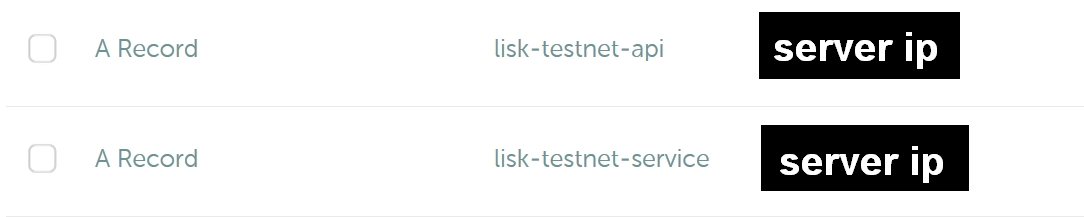
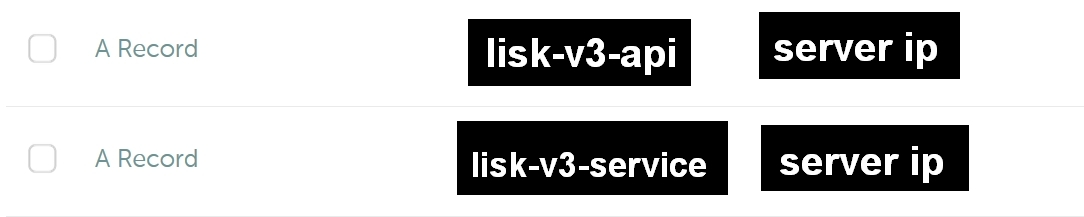
modified a records to match with domains in the guide

Changed region(s): [[0.3958, 0.553, 0.6697, 0.9124], [0.4262, 0.0829, 0.6393, 0.4147]]

diff --git a/lisk-v3-testnet-service-api.html b/lisk-v3-testnet-service-api.html
@@ -71,8 +71,8 @@
 <h3 id="step1">1. Add A-Records for api and service</h3>
 <em>Login to your domain hoster and set two A RECORDS for api and service.<br><br>
 This example will result in the domains:<br>
-- https://lisk-testnet-api.YourDomain.tld<br>
-- https://lisk-testnet-service.YourDomain.tld</em><br><br>
+- https://lisk-v3-api.YourDomain.tld<br>
+- https://lisk-v3-service.YourDomain.tld</em><br><br>
 
 <img src="./a-records.jpg">
 
